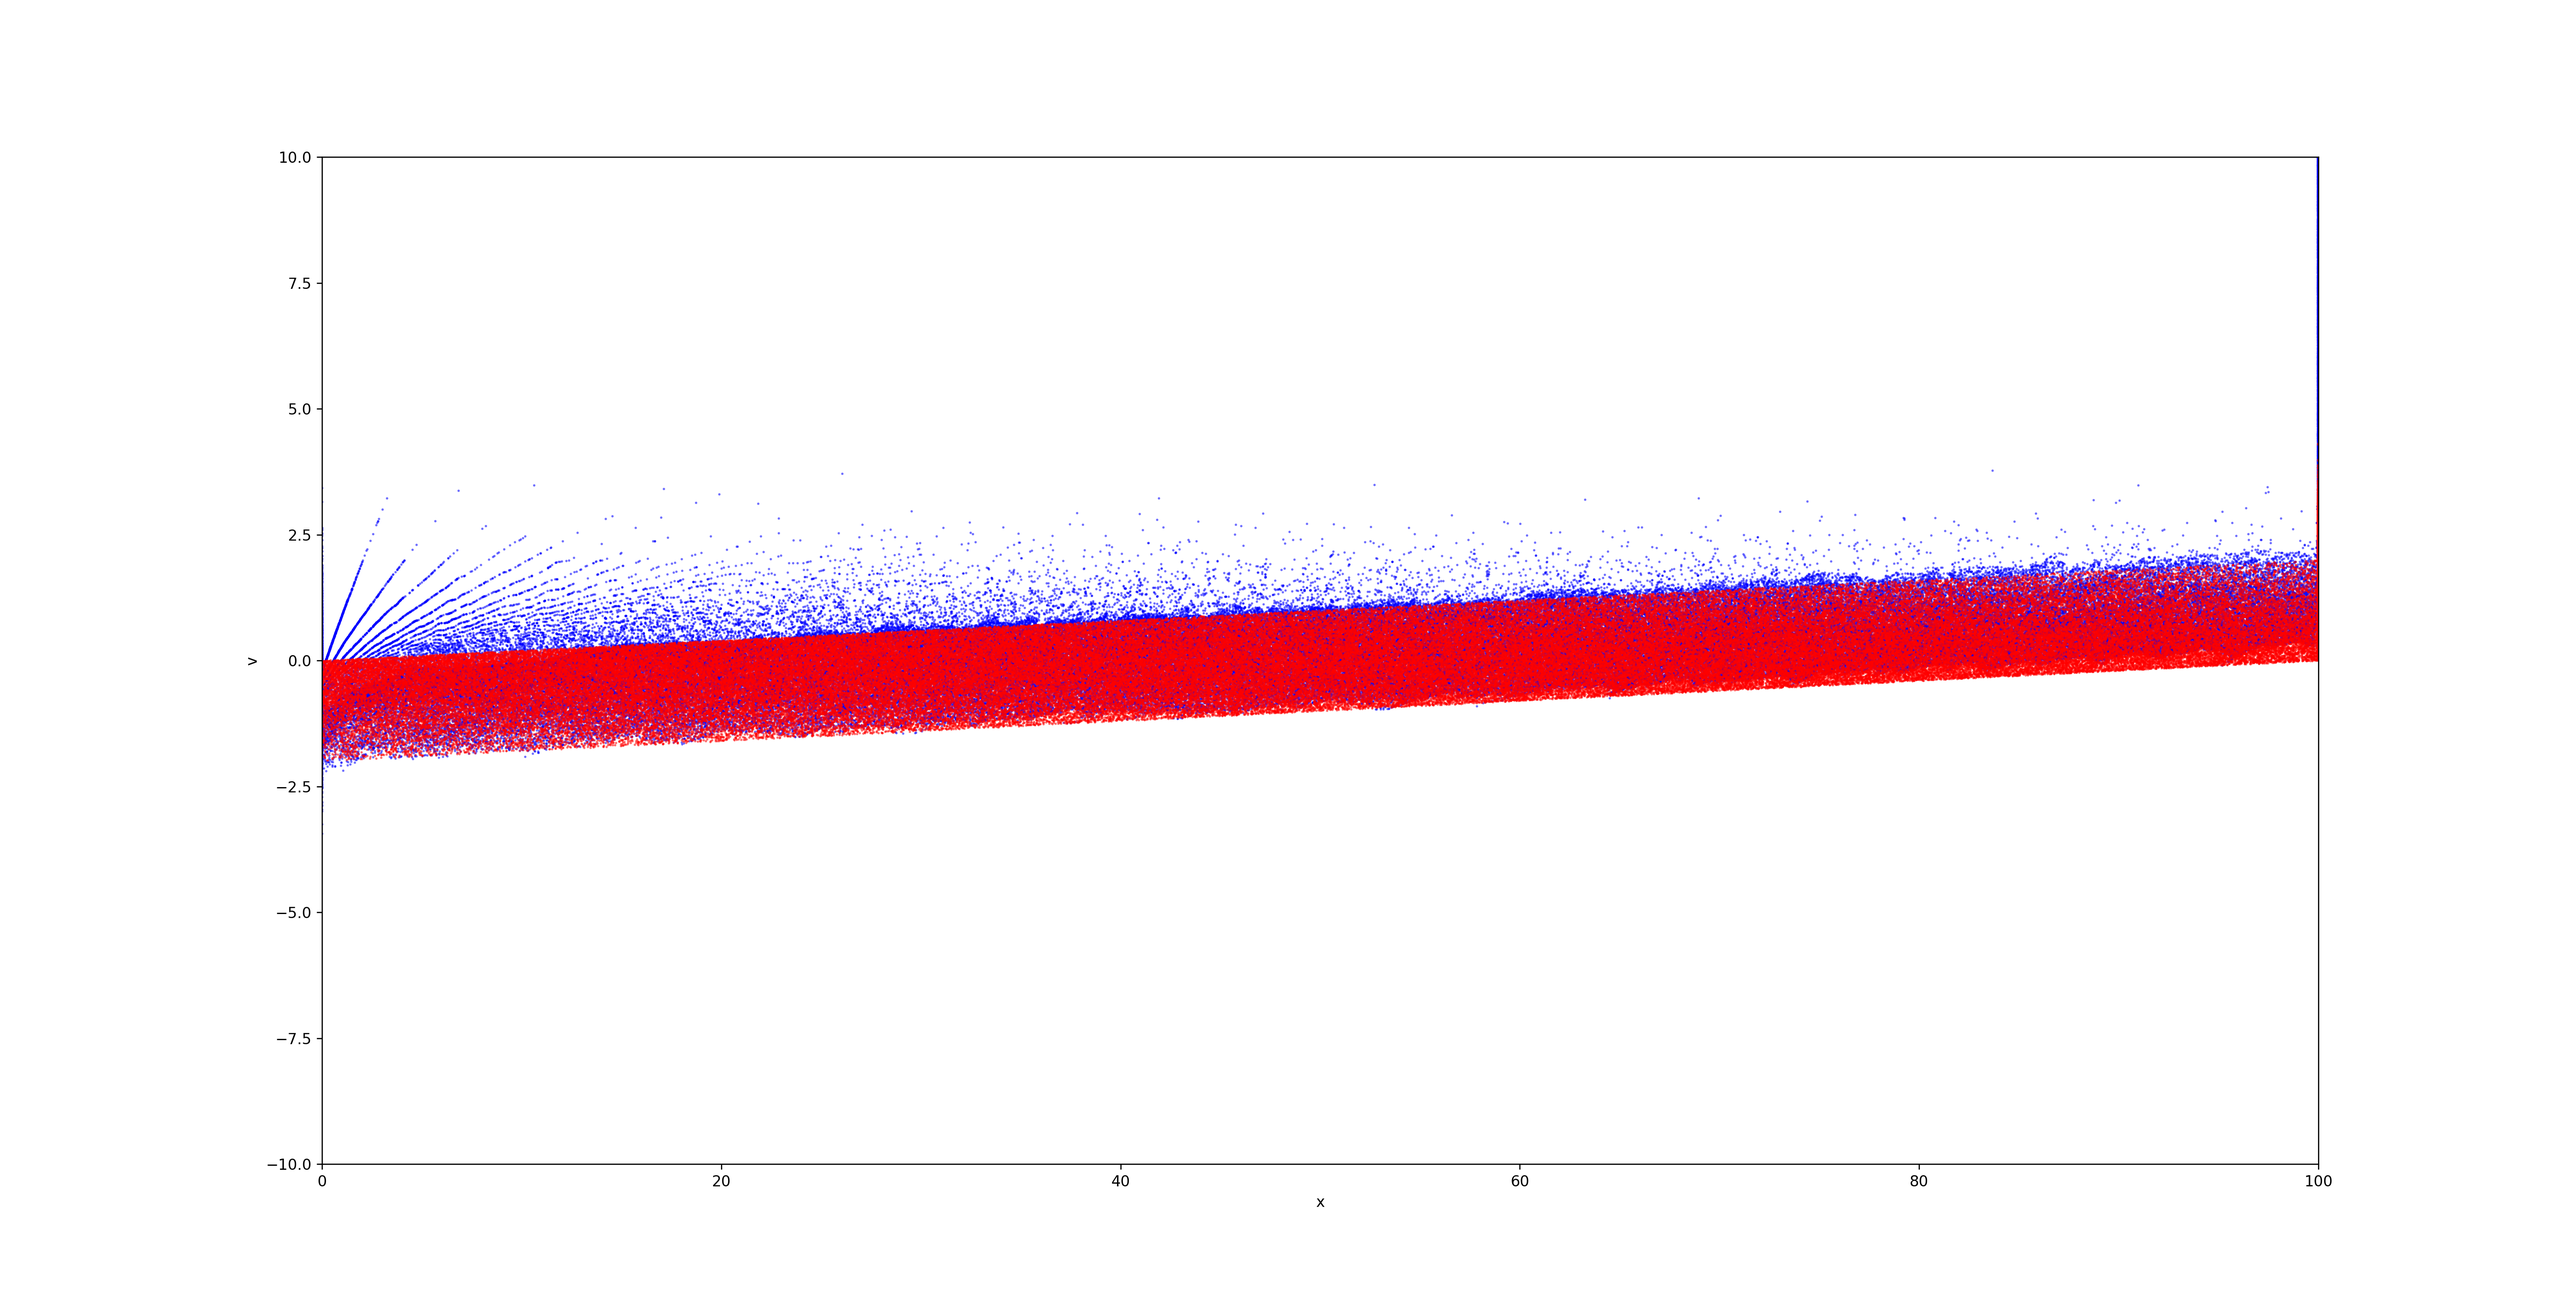
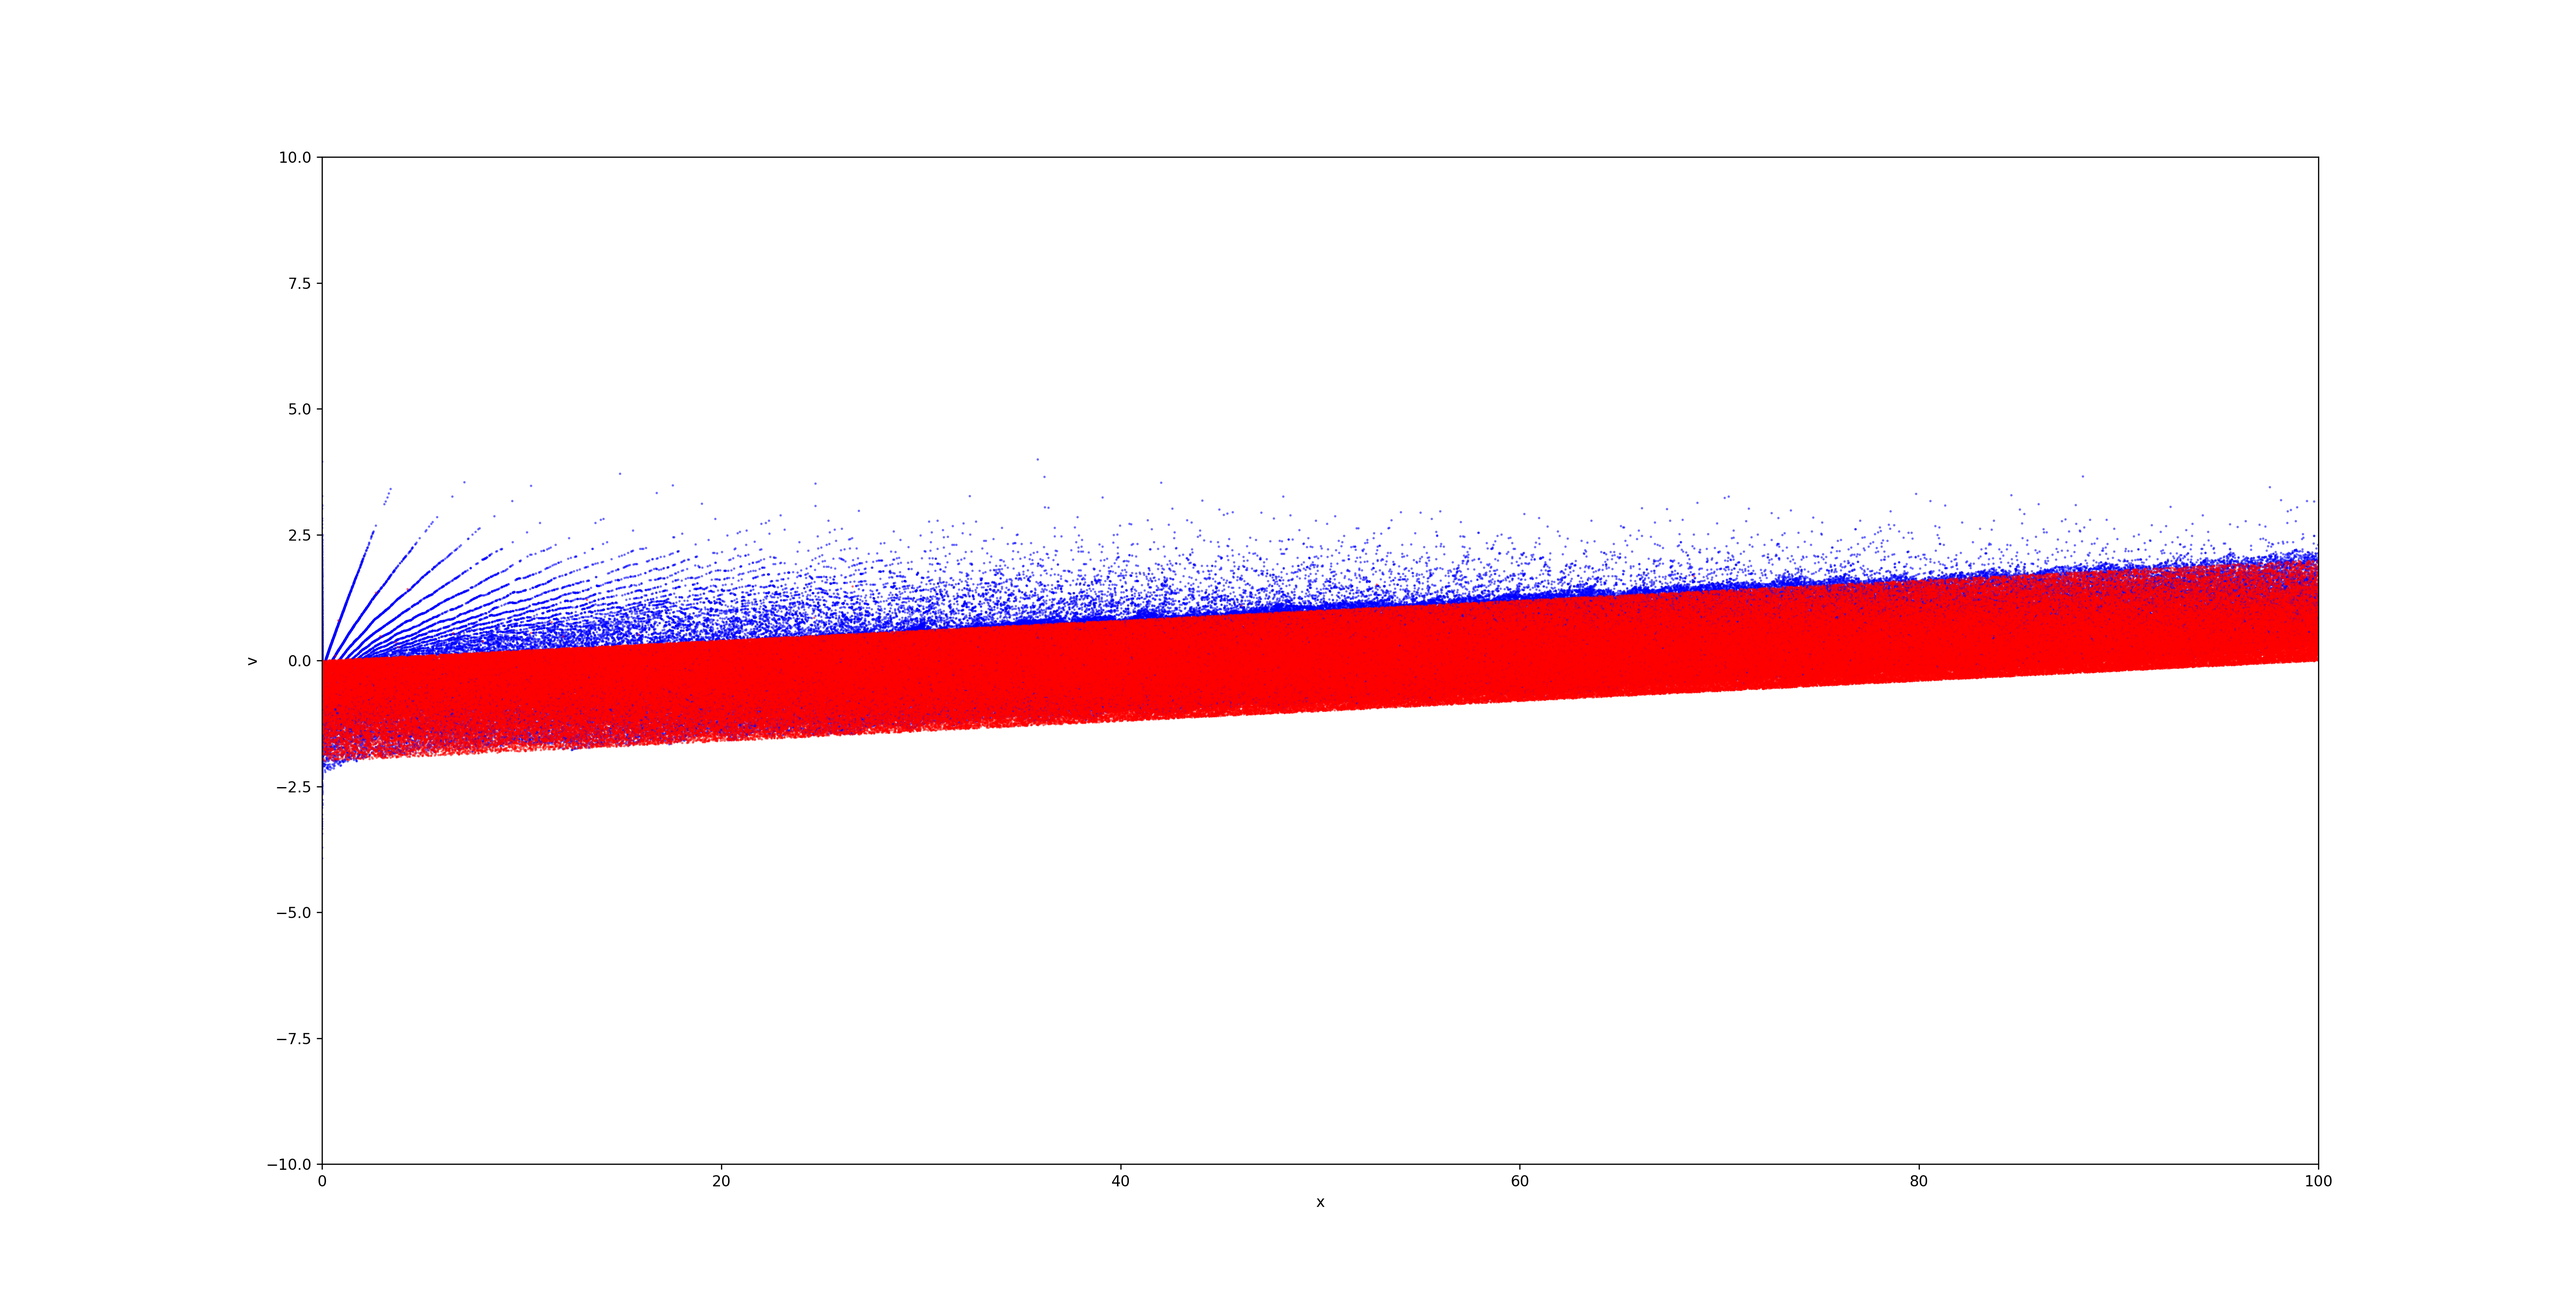
Done: particle death and generation, Laplacian and gradient boundary conditions

Changed region(s): [[0.125, 0.4044, 0.9062, 0.5911]]

diff --git a/main.py b/main.py
@@ -74,14 +74,14 @@ def getAcc(pos_e, pos_i, Nx, boxsize, n0, Gmtx, Lmtx, Laptx, t, Vrf, w):
 
     n *= n0 * boxsize / N / dx
 
-    # Solve Poisson's Equation: laplacian(phi) = n-n0
+    # Solve Poisson's Equation: laplacian(phi) = n
     #phi_Pois_grid = spsolve(Lmtx, n - n0, permc_spec="MMD_AT_PLUS_A")
     phi_Pois_grid = spsolve(Laptx, n, permc_spec="MMD_AT_PLUS_A")
 
     zerros = []
     zerros = [0 for index in range(Nx)]
-    zerros[Nx-1] = n[Nx-1] - Vrf * np.sin(w*t)
-    #zerros[Nx - 1] = 0.1*Vrf + Vrf * np.sin(w * t)
+    #zerros[Nx-1] = n[Nx-1] - Vrf * np.sin(w*t)
+    zerros[Nx - 1] = Vrf * np.sin(w * t)
 
     # Solve Laplace's Equation: laplacian(phi) = 0
     phi_Lap_grid = spsolve(Laptx, zerros, permc_spec="MMD_AT_PLUS_A")
@@ -106,17 +106,15 @@ def main():
     """ Plasma PIC simulation """
 
     # Simulation parameters
-    N = 500000  # Number of particles. Need 10 000 000
+    N = 1000000  # Number of particles. Need 10 000 000
     Nx = 2000  # Number of mesh cells
     t = 0  # current time of the simulation
     tEnd = 50  # time at which simulation ends [mks]
     dt = 1  # timestep 1mks
     boxsize = 100  # periodic domain [0,boxsize] 100 mkm
     n0 = 1  # electron number density
-    #vb = 3  # beam velocity
     vb = 0  # beam velocity
     vth = 1  # beam width
-    #A = 0.1  # perturbation
     Te = 2.3  # electron temperature
     Ti = 0.06  # ion temperature
     me = 1 # electron mass
@@ -222,13 +220,21 @@ def main():
         # boundary condition and particle death
         #pos = np.mod(pos, boxsize) # periodic boundary condition
 
-        pos_e[pos_e >= boxsize] = boxsize - 0.5 * dx # particle death
+        #pos_e[pos_e >= boxsize] = boxsize - 0.5 * dx # particle death
+        be_b = np.where(pos_e >= boxsize)
+        pos_e = np.delete(pos_e, be_b[0], axis=0)
+        vel_e = np.delete(vel_e, be_b[0], axis=0)
+        acc_e = np.delete(acc_e, be_b[0], axis=0)
         be = np.where(pos_e <= 0)
         pos_e = np.delete(pos_e, be[0], axis = 0)
         vel_e = np.delete(vel_e, be[0], axis = 0)
         acc_e = np.delete(acc_e, be[0], axis = 0)
 
-        pos_i[pos_i >= boxsize] = boxsize - 0.5 * dx # particle death
+        #pos_i[pos_i >= boxsize] = boxsize - 0.5 * dx # particle death
+        bi_b = np.where(pos_i >= boxsize)
+        pos_i = np.delete(pos_i, bi_b[0], axis=0)
+        vel_i = np.delete(vel_i, bi_b[0], axis=0)
+        acc_i = np.delete(acc_i, bi_b[0], axis=0)
         bi = np.where(pos_i <= 0)
         pos_i = np.delete(pos_i, bi[0], axis = 0)
         vel_i = np.delete(vel_i, bi[0], axis=0)
@@ -304,7 +310,7 @@ def main():
     dE = Energy_max / deltaE
 
     for ind in range(pos_i.shape[0]):
-        if (pos_i[ind] >= boxsize - dx) and (vel_i[ind] > 0):
+        if (pos_i[ind] >= boxsize - 3*dx) and (vel_i[ind] > 0):
             k = int(energy[ind] // dE)
             if k < deltaE:
                 iedf[k] += 1
